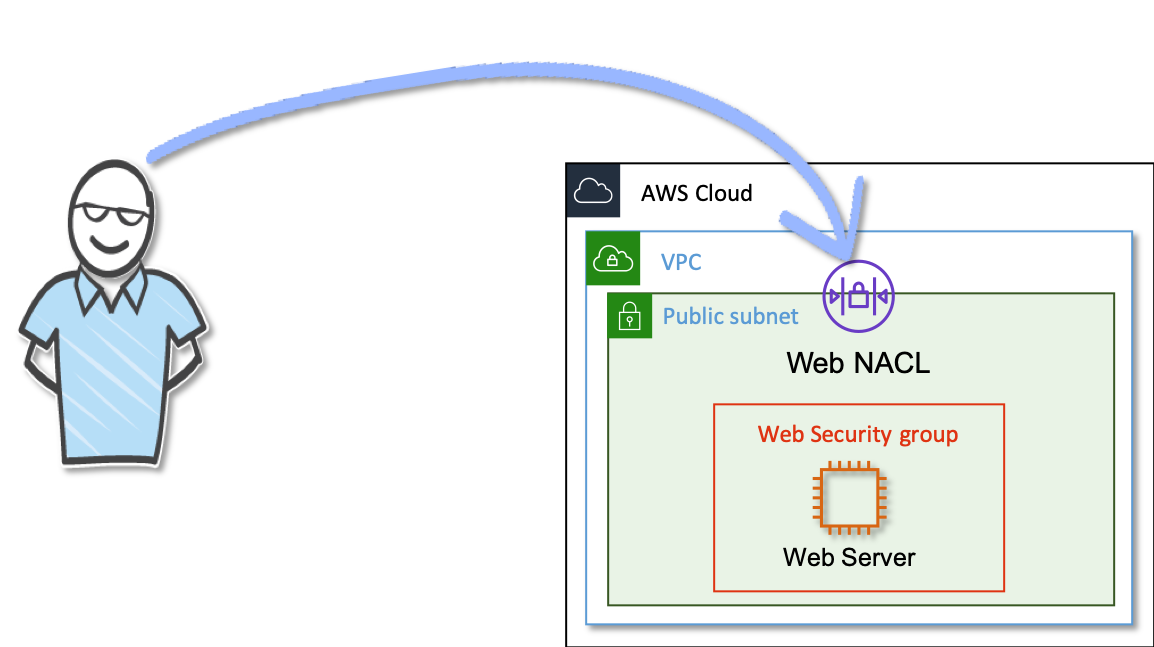
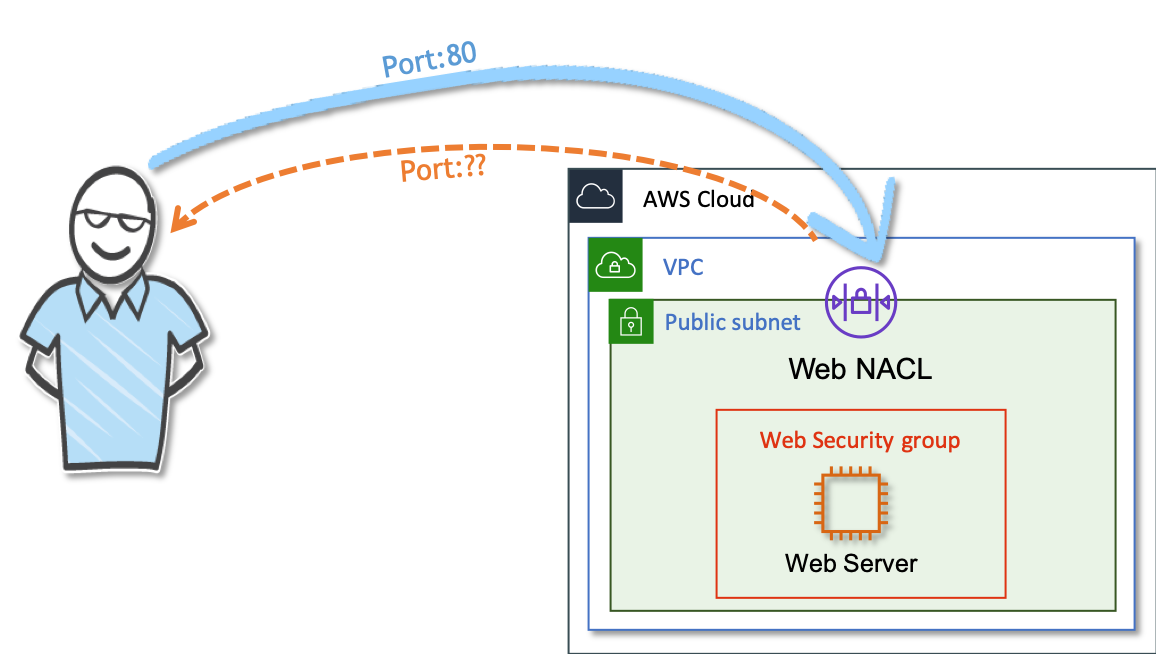
Updates to NACL Name

diff --git a/nacl-outbound-ephemeral-ports/cdk_src/ttk_stack.py b/nacl-outbound-ephemeral-ports/cdk_src/ttk_stack.py
@@ -35,27 +35,27 @@ class TtkStack(core.Stack):
             "Allow internet access from the world."
         )
 
-        working_nacl = ec2.NetworkAcl(self,
-            "web_working_nacl",
+        broken_nacl = ec2.NetworkAcl(self,
+            "web_broken_nacl",
             vpc = vpc
         )
 
         # Enable below section to break web server
         """
-        working_nacl.associate_with_subnet("web_working_nacl",
+        broken_nacl.associate_with_subnet("web_broken_nacl",
             subnets = [vpc.public_subnets[0]]
             # subnet_type = ec2.SubnetType.PUBLIC
         )
         """
 
-        working_nacl.add_entry("working_nacl_in_rule_120",
+        broken_nacl.add_entry("broken_nacl_in_rule_120",
             cidr = ec2.AclCidr.any_ipv4(),
             rule_number = 120,
             traffic = ec2.AclTraffic.tcp_port(80),
             direction = ec2.TrafficDirection.INGRESS,
             rule_action = ec2.Action.ALLOW
         )
-        working_nacl.add_entry("working_nacl_out_rule_120",
+        broken_nacl.add_entry("broken_nacl_out_rule_120",
             cidr = ec2.AclCidr.any_ipv4(),
             rule_number = 120,
             # traffic = ec2.AclTraffic.all_traffic(),

diff --git a/nacl-outbound-ephemeral-ports/README.MD b/nacl-outbound-ephemeral-ports/README.MD
@@ -1,4 +1,5 @@
-# AWS Security
+# AWS Security - Why add Ephemeral ports to NACL?
+
 Recently, I was asked why do we need to add ephemeral ports on NACL?. 
 
 ![](images/why-add-ephemeral-ports-on-nacl.png)
@@ -7,5 +8,20 @@ Let us try to understand that with a simple scenario. When you want to visit a w
 
 The client that initiates the request chooses the ephemeral port range on which it wants to receive the payload it requested for. The range varies depending on the client's operating system. So, for a web server to work properly, we need to configure appropriate ephemerals ports on the web server.
 
+### Lab Setup
+  In this repo, I have included a cloudformation template for a working web server. Go ahead and attach the public subnets to the custom subnet `web broken nacl`. Figure out what it is not working and why the `default ncal` is working.
+
+### Contact Us
+
+You can reach out to us to get more details through [here](https://youtube.com/c/valaxytechnologies/about).
+
+#### References
+
+1. [Custom Network ACLs & Ephemeral Ports](https://docs.aws.amazon.com/en_pv/vpc/latest/userguide/vpc-network-acls.html#nacl-ephemeral-ports)
+1. [Host a website on an EC2 instance](https://aws.amazon.com/premiumsupport/knowledge-center/connect-http-https-ec2/)
+
+### Metadata
+
+**Level**: 100
 
 
